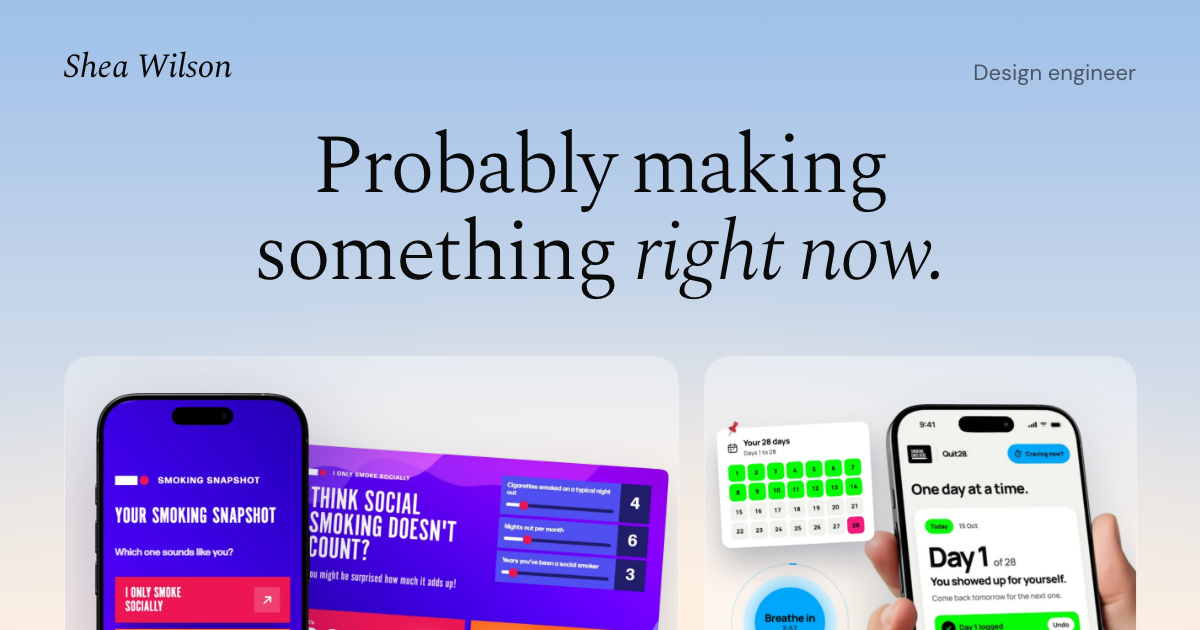
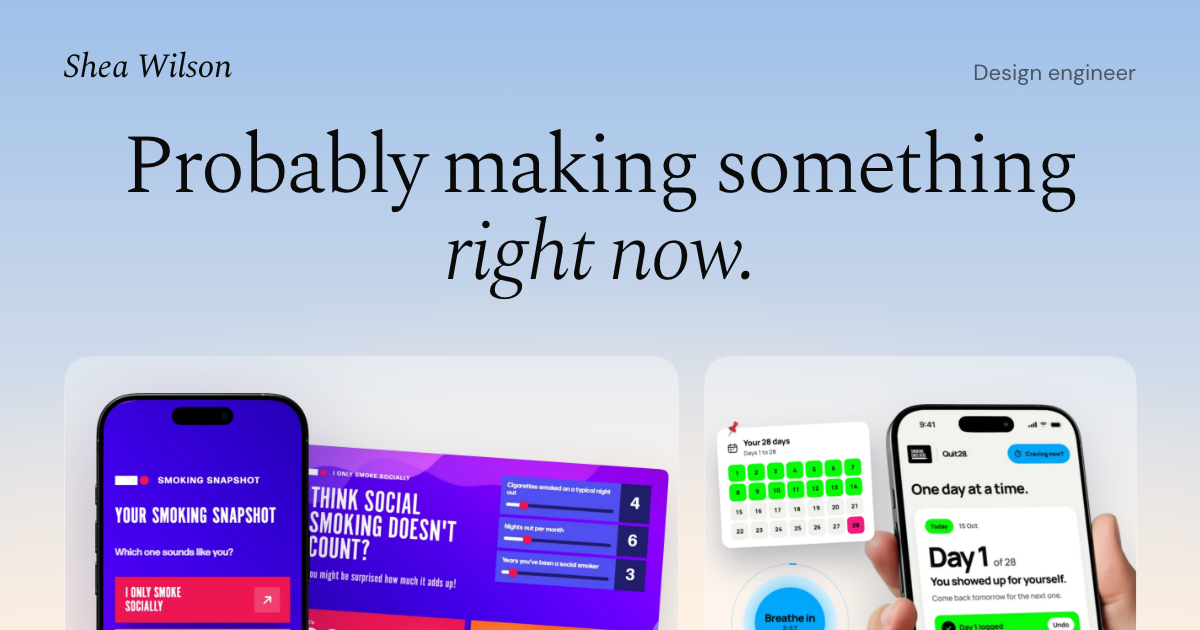
Headline: right now on a line to itself (homepage, share card, 3D walk and slab); Snapshot live since June, Quit28 live since October

Changed region(s): [[0.0925, 0.2111, 0.8942, 0.4825]]

diff --git a/ar/js/world.js b/ar/js/world.js
@@ -63,10 +63,10 @@ const sky = buildSky();
 const eclipse = buildEclipse();
 const ground = buildGround(panes);
 ground.setPanes(panes);
-// The homepage's headline: one line on a wide screen, two on an upright one
+// The homepage's headline, with "right now." on a line to itself: two lines on a wide screen, three on an upright one
 const headlines = {
-  one: buildType([[['Probably making something ', false], ['right now.', true]]], { height: 3.1 }),
-  two: buildType([[['Probably making', false]], [['something ', false], ['right now.', true]]], { height: 6.2 }),
+  one: buildType([[['Probably making something', false]], [['right now.', true]]], { height: 6.2 }),
+  two: buildType([[['Probably making', false]], [['something', false]], [['right now.', true]]], { height: 9.3 }),
 };
 let headline = headlines.one;
 
@@ -150,7 +150,7 @@ function buildPath() {
   headline = portrait ? headlines.two : headlines.one;
   headlines.one.mesh.visible = !portrait; headlines.two.mesh.visible = portrait;
   // as wide as the homepage's: about half a desktop screen on one line
-  const hw = (portrait ? .84 : lerp(.8, h < 520 ? .46 : .54, wide)) * 2 * D * t0 * aspect;
+  const hw = (portrait ? .72 : lerp(.8, h < 520 ? .46 : .54, wide)) * 2 * D * t0 * aspect;
   const scale = hw / headline.width;
   const halfH = headline.height * scale / 2 / D / t0; // in NDC
   headline.mesh.scale.setScalar(scale);

diff --git a/ar/js/kit.js b/ar/js/kit.js
@@ -180,7 +180,7 @@ export function environment(renderer, RoomEnvironment) {
 /* ───────── The objects ───────── */
 
 // The homepage's hero as an object: a standing slab whose face is the sky (top, middle, horizon) with
-// "Always making something." on it. It replaces the old disc and its ring of colour. setSky() repaints it.
+// "Probably making something right now." on it. It replaces the old disc and its ring of colour. setSky() repaints it.
 export function skyCanvas(s, { w = 1024, h = 640, headline = true, name = false } = {}) {
   const [c, g] = canvas(w, h);
   const lg = g.createLinearGradient(0, 0, 0, h);
@@ -194,7 +194,7 @@ export function skyCanvas(s, { w = 1024, h = 640, headline = true, name = false 
   }
   if (headline) {
     const size = Math.round(h * .17);
-    const t = textCanvas([[['Always making ', `300 ${size}px Spectral`], ['something.', `italic 300 ${size}px Spectral`]]], { color: s.ink || '#0a0a0a', scale: 1, tracking: -size * .02 });
+    const t = textCanvas([[['Probably making something', `300 ${size}px Spectral`]], [['right now.', `italic 300 ${size}px Spectral`]]], { color: s.ink || '#0a0a0a', scale: 1, tracking: -size * .02, align: 'center' });
     const k = Math.min(1, (w * .84) / t.width);
     g.drawImage(t, (w - t.width * k) / 2, h * (name ? .3 : .36), t.width * k, t.height * k);
     if (name) {

diff --git a/assets/css/home.css b/assets/css/home.css
@@ -14,6 +14,9 @@
 .home .corona { opacity: .6; animation-duration: 180s; }
 .home .hero-copy { position: relative; z-index: 6; left: auto; top: auto; translate: none; width: min(100%, 720px); margin: 0 auto; padding: 8px 0 0; }
 .home .hero h1 { font-size: clamp(40px, 5.2vw, 76px); line-height: 1.05; }
+/* "right now." always has a line to itself. On a wide screen the first line is longer than the column, so the headline
+   reaches past it on both sides; on a phone the first line breaks in two. */
+@media (min-width: 1000px) { .home .hero h1 { margin-inline: -120px; } }
 .home .hero .intro { margin-top: 20px; max-width: 34em; font-size: clamp(16px, 1.2vw, 18px); }
 .last { color: var(--ink); white-space: nowrap; }
 .last a { text-decoration: underline; text-decoration-color: color-mix(in srgb, var(--ink) 25%, transparent); text-underline-offset: 3px; transition: text-decoration-color .2s var(--ease); }

diff --git a/tools/og.html b/tools/og.html
@@ -39,6 +39,6 @@
   document.body.className = c ? 'case' : 'home';
   document.body.innerHTML = '<p class="nm">Shea Wilson</p>' + (c
     ? `<div class="copy"><h1>${c[0]}</h1><p>${c[1]}</p></div><div class="art"><img src="og-art/${p}.webp" alt=""></div>`
-    : `<p class="role">Design engineer</p><h1>Probably making something <em>right now.</em></h1><div class="row"><img src="og-art/snapshot.webp" alt=""><img src="og-art/quit28.webp" alt=""></div>`);
+    : `<p class="role">Design engineer</p><h1>Probably making something<br><em>right now.</em></h1><div class="row"><img src="og-art/snapshot.webp" alt=""><img src="og-art/quit28.webp" alt=""></div>`);
 </script>
 </body></html>

diff --git a/index.html b/index.html
@@ -65,7 +65,7 @@
     <div class="eclipse" aria-hidden="true"><div class="corona"></div><div class="disc"></div></div>
   </div>
   <div class="hero-copy">
-    <h1>Probably making something <em>right now.</em></h1>
+    <h1>Probably making something<br> <em>right now.</em></h1>
     <p class="intro"><span class="intro-who">I’m Shea, a design engineer and a Digital Design student at Ulster University. </span>I designed and built Smoking Snapshot and Quit28 for an NHS campaign. <span class="last">Last shipped <a href="shipped/">this week</a>.</span></p>
   </div>
 </section>

diff --git a/links/links.js b/links/links.js
@@ -223,7 +223,7 @@
         <canvas class="ar-sun" width="48" height="48" aria-hidden="true"></canvas>
         <h1 class="ar-title">Shea<br>Wilson</h1>
         <p class="ar-class">Class: design engineer</p>
-        <p class="ar-quest">Quest: always making something</p>
+        <p class="ar-quest">Quest: probably making something</p>
         <p class="ar-select">Select a link</p>
         <ul class="ar-menu">
           ${links.map((l, i) => `<li><a class="ar-item${i === 0 ? ' is-sel' : ''}" ${attrs(l)}>

diff --git a/snapshot.html b/snapshot.html
@@ -75,7 +75,7 @@
     <dl class="facts reveal" style="--d:.12s">
       <div><dt>Role</dt><dd>UX, build and reporting</dd></div>
       <div><dt>Client</dt><dd>Smoking Ends Here, for Champs and the NHS</dd></div>
-      <div><dt>When</dt><dd>May to September 2026</dd></div>
+      <div><dt>When</dt><dd>Live since June 2026</dd></div>
     </dl>
   </header>
 <section class="sn-flow" aria-labelledby="flow-title">

diff --git a/quit28.html b/quit28.html
@@ -76,7 +76,7 @@
     <dl class="facts reveal" style="--d:.12s">
       <div><dt>Role</dt><dd>UX and visual design, build, film and reporting</dd></div>
       <div><dt>Client</dt><dd>Smoking Ends Here, for Champs and the NHS</dd></div>
-      <div><dt>When</dt><dd>August to October 2026</dd></div>
+      <div><dt>When</dt><dd>Live since October 2026</dd></div>
     </dl>
   </header>
 
